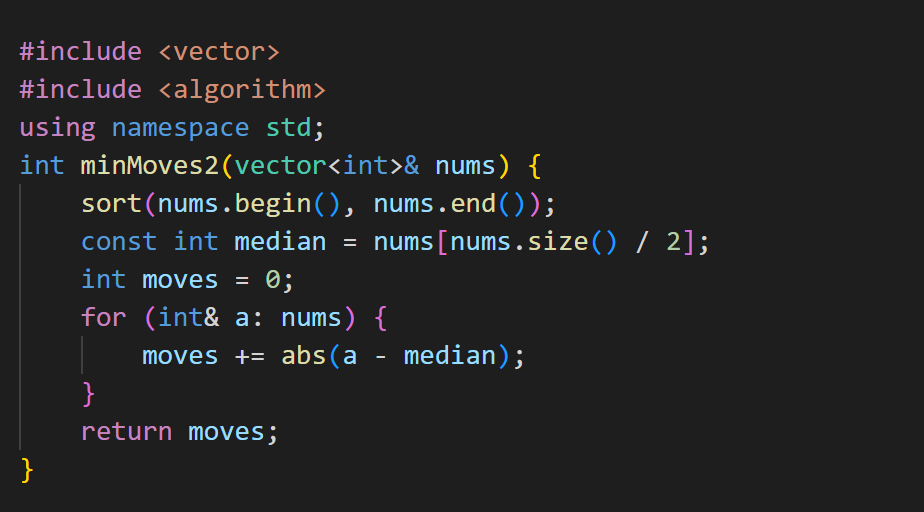
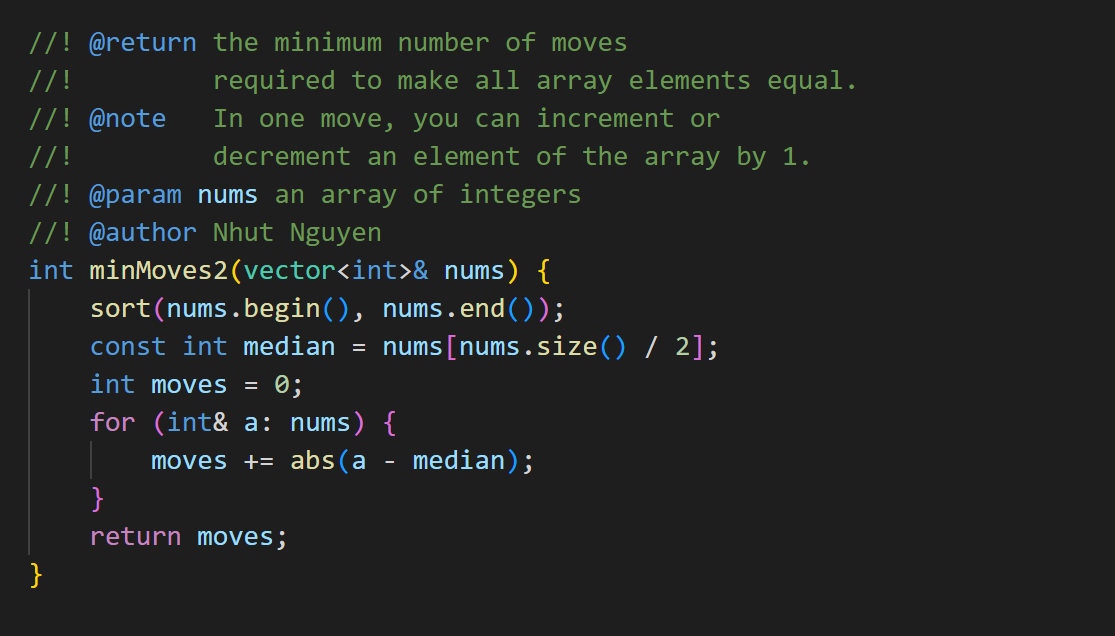
update screenshot

diff --git a/462. Minimum Moves to Equal Array Elements II/462_Minimum_Moves_to_Equal_Array_Elements_II.cpp b/462. Minimum Moves to Equal Array Elements II/462_Minimum_Moves_to_Equal_Array_Elements_II.cpp
@@ -1,8 +1,14 @@
 #include <iostream>
-
 #include <vector>
 #include <algorithm>
 using namespace std;
+
+//! @return the minimum number of moves 
+//!         required to make all array elements equal.
+//! @note   In one move, you can increment or 
+//!         decrement an element of the array by 1.
+//! @param nums an array of integers
+//! @author Nhut Nguyen
 int minMoves2(vector<int>& nums) {
     sort(nums.begin(), nums.end());
     const int median = nums[nums.size() / 2];
